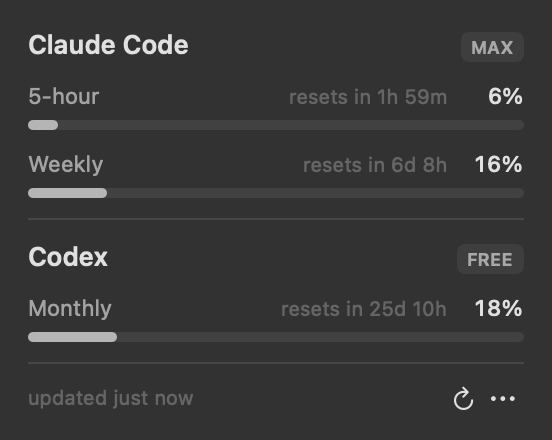
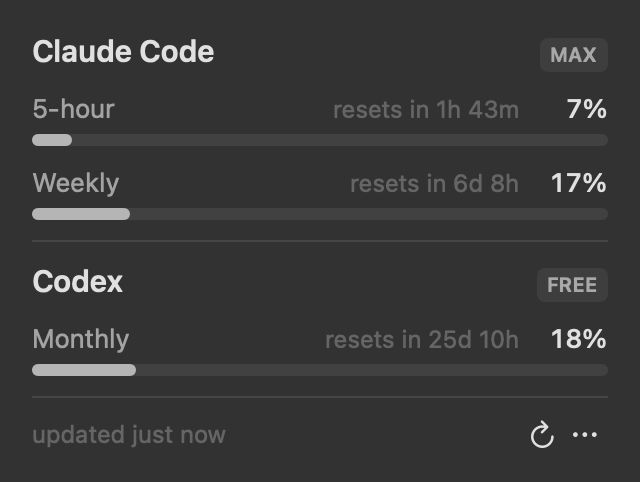
Let the menu bar number track a chosen provider, and enlarge the popover text

diff --git a/Sources/UsageBarApp/PopoverView.swift b/Sources/UsageBarApp/PopoverView.swift
@@ -14,8 +14,8 @@ struct PopoverView: View {
             Divider().padding(.vertical, 10)
             FooterView(store: store)
         }
-        .padding(14)
-        .frame(width: 276)
+        .padding(16)
+        .frame(width: 320)
     }
 
     @ViewBuilder
@@ -42,11 +42,11 @@ private struct ProviderSection: View {
         VStack(alignment: .leading, spacing: 10) {
             HStack(alignment: .firstTextBaseline) {
                 Text(status.kind.displayName)
-                    .font(.system(size: 13, weight: .semibold))
+                    .font(.system(size: 15, weight: .semibold))
                 Spacer()
                 if let plan = status.report?.plan {
                     Text(plan.uppercased())
-                        .font(.system(size: 9, weight: .semibold))
+                        .font(.system(size: 10, weight: .semibold))
                         .foregroundStyle(.secondary)
                         .padding(.horizontal, 5)
                         .padding(.vertical, 2)
@@ -68,17 +68,17 @@ private struct WindowRow: View {
         VStack(alignment: .leading, spacing: 5) {
             HStack(alignment: .firstTextBaseline, spacing: 6) {
                 Text(window.title)
-                    .font(.system(size: 11))
+                    .font(.system(size: 13))
                     .foregroundStyle(.secondary)
                 Spacer(minLength: 4)
                 if let resetsAt = window.resetsAt {
                     Text(RelativeTime.untilReset(resetsAt, now: now))
-                        .font(.system(size: 10))
+                        .font(.system(size: 12))
                         .foregroundStyle(.tertiary)
                 }
                 Text("\(Int(window.usedPercent.rounded()))%")
-                    .font(.system(size: 11, weight: .medium).monospacedDigit())
-                    .frame(width: 32, alignment: .trailing)
+                    .font(.system(size: 13, weight: .medium).monospacedDigit())
+                    .frame(width: 38, alignment: .trailing)
             }
             Meter(fraction: window.usedPercent / 100)
         }
@@ -107,7 +107,7 @@ private struct Meter: View {
                     .frame(width: max(clamped * geometry.size.width, clamped > 0 ? 5 : 0))
             }
         }
-        .frame(height: 5)
+        .frame(height: 6)
     }
 }
 
@@ -118,14 +118,14 @@ private struct EmptyStateView: View {
     var body: some View {
         VStack(alignment: .leading, spacing: 8) {
             Text(isRefreshing && statuses.isEmpty ? "Checking…" : "No usage to show")
-                .font(.system(size: 13, weight: .semibold))
+                .font(.system(size: 15, weight: .semibold))
             ForEach(statuses) { status in
                 VStack(alignment: .leading, spacing: 2) {
                     Text(status.kind.displayName)
-                        .font(.system(size: 11, weight: .medium))
+                        .font(.system(size: 13, weight: .medium))
                         .foregroundStyle(.secondary)
                     Text(status.unavailableReason ?? "Unavailable.")
-                        .font(.system(size: 11))
+                        .font(.system(size: 12))
                         .foregroundStyle(.tertiary)
                         .fixedSize(horizontal: false, vertical: true)
                 }
@@ -135,7 +135,7 @@ private struct EmptyStateView: View {
 }
 
 private struct FooterView: View {
-    let store: UsageStore
+    @Bindable var store: UsageStore
     @State private var opensAtLogin = LoginItem.isEnabled
 
     /// Reflects back what the service actually reports, so a rejected registration
@@ -153,30 +153,37 @@ private struct FooterView: View {
     var body: some View {
         HStack(spacing: 8) {
             Text(store.lastRefreshed.map { RelativeTime.sinceUpdate($0) } ?? "not checked yet")
-                .font(.system(size: 10))
+                .font(.system(size: 12))
                 .foregroundStyle(.tertiary)
             Spacer()
             Button {
                 store.refresh()
             } label: {
                 Image(systemName: "arrow.clockwise")
-                    .font(.system(size: 11, weight: .medium))
+                    .font(.system(size: 13, weight: .medium))
             }
             .buttonStyle(.plain)
             .disabled(store.isRefreshing)
             .help("Refresh")
 
             Menu {
+                Picker("Show in Menu Bar", selection: $store.menuBarSource) {
+                    ForEach(MenuBarSource.allCases) { source in
+                        Text(source.title).tag(source)
+                    }
+                }
+                .pickerStyle(.inline)
+                Divider()
                 Toggle("Open at Login", isOn: loginItemBinding)
                 Divider()
                 Button("Quit UsageBar") { NSApplication.shared.terminate(nil) }
             } label: {
                 Image(systemName: "ellipsis")
-                    .font(.system(size: 11, weight: .medium))
+                    .font(.system(size: 13, weight: .medium))
             }
             .menuStyle(.borderlessButton)
             .menuIndicator(.hidden)
-            .frame(width: 16)
+            .frame(width: 18)
         }
     }
 }

diff --git a/Tests/UsageBarCoreTests/ParsingTests.swift b/Tests/UsageBarCoreTests/ParsingTests.swift
@@ -172,9 +172,74 @@ struct PresentationTests {
 
 @Suite("Store")
 struct UsageStoreTests {
+    /// A throwaway domain per test so one test's saved choice cannot leak into another.
+    static func scratchDefaults(_ name: String) -> UserDefaults {
+        let defaults = UserDefaults(suiteName: "usagebar.tests.\(name)")!
+        defaults.removePersistentDomain(forName: "usagebar.tests.\(name)")
+        return defaults
+    }
+
+    static let bothProviders: [ProviderStatus] = [
+        ProviderStatus(kind: .claude, outcome: .report(ProviderReport(plan: "max", windows: [
+            UsageWindow(id: "five_hour", title: "5-hour", usedPercent: 6, resetsAt: nil),
+            UsageWindow(id: "seven_day", title: "Weekly", usedPercent: 16, resetsAt: nil),
+        ]))),
+        ProviderStatus(kind: .codex, outcome: .report(ProviderReport(plan: "free", windows: [
+            UsageWindow(id: "primary", title: "Monthly", usedPercent: 18, resetsAt: nil)
+        ]))),
+    ]
+
+    @MainActor
+    @Test func headlineFollowsTheChosenProvider() {
+        let store = UsageStore(defaults: Self.scratchDefaults(#function))
+        store.apply(Self.bothProviders)
+
+        #expect(store.menuBarSource == .highest)
+        #expect(store.headlinePercent == 18)
+
+        store.menuBarSource = .claude
+        #expect(store.headlinePercent == 16)
+
+        store.menuBarSource = .codex
+        #expect(store.headlinePercent == 18)
+    }
+
+    @MainActor
+    @Test func headlineIsEmptyWhenTheChosenProviderDidNotAnswer() {
+        let store = UsageStore(defaults: Self.scratchDefaults(#function))
+        store.menuBarSource = .codex
+        store.apply([
+            Self.bothProviders[0],
+            ProviderStatus(kind: .codex, outcome: .unavailable("`codex` was not found.")),
+        ])
+
+        #expect(store.headlinePercent == nil)
+    }
+
+    @MainActor
+    @Test func theChoiceSurvivesARestart() {
+        let defaults = Self.scratchDefaults(#function)
+        let first = UsageStore(defaults: defaults)
+        first.menuBarSource = .claude
+
+        let relaunched = UsageStore(defaults: defaults)
+        relaunched.apply(Self.bothProviders)
+
+        #expect(relaunched.menuBarSource == .claude)
+        #expect(relaunched.headlinePercent == 16)
+    }
+
+    @MainActor
+    @Test func fallsBackToHighestWhenTheStoredChoiceIsUnreadable() {
+        let defaults = Self.scratchDefaults(#function)
+        defaults.set("gemini", forKey: MenuBarSource.defaultsKey)
+
+        #expect(UsageStore(defaults: defaults).menuBarSource == .highest)
+    }
+
     @MainActor
     @Test func headlineTracksTheWorstWindowAcrossProviders() {
-        let store = UsageStore()
+        let store = UsageStore(defaults: Self.scratchDefaults(#function))
         store.apply([
             ProviderStatus(
                 kind: .claude,
@@ -198,7 +263,7 @@ struct UsageStoreTests {
 
     @MainActor
     @Test func headlineIsAbsentWhenNothingCouldBeProbed() {
-        let store = UsageStore()
+        let store = UsageStore(defaults: Self.scratchDefaults(#function))
         store.apply([
             ProviderStatus(kind: .claude, outcome: .unavailable("not installed")),
             ProviderStatus(kind: .codex, outcome: .unavailable("not installed")),

diff --git a/Sources/UsageBarCore/UsageStore.swift b/Sources/UsageBarCore/UsageStore.swift
@@ -8,10 +8,19 @@ public final class UsageStore {
     public private(set) var lastRefreshed: Date?
     public private(set) var isRefreshing = false
 
+    public var menuBarSource: MenuBarSource {
+        didSet { defaults.set(menuBarSource.rawValue, forKey: MenuBarSource.defaultsKey) }
+    }
+
+    private let defaults: UserDefaults
     private var refreshTask: Task<Void, Never>?
     private var autoRefreshTask: Task<Void, Never>?
 
-    public init() {}
+    public init(defaults: UserDefaults = .standard) {
+        self.defaults = defaults
+        self.menuBarSource = defaults.string(forKey: MenuBarSource.defaultsKey)
+            .flatMap(MenuBarSource.init(rawValue:)) ?? .highest
+    }
 
     public var available: [ProviderStatus] {
         statuses.filter { $0.report != nil }
@@ -21,10 +30,11 @@ public final class UsageStore {
         statuses.filter { $0.report == nil }
     }
 
-    /// The worst window across every provider that answered, which is the number worth
-    /// carrying in the menu bar.
+    /// The worst window of whichever providers `menuBarSource` covers. Nil when the
+    /// chosen provider did not answer, which leaves the menu bar showing an empty ring.
     public var headlinePercent: Double? {
-        available.flatMap { $0.report?.windows ?? [] }.map(\.usedPercent).max()
+        let scoped = menuBarSource.providerKind.map { kind in available.filter { $0.kind == kind } } ?? available
+        return scoped.flatMap { $0.report?.windows ?? [] }.map(\.usedPercent).max()
     }
 
     public func refresh() {

diff --git a/Sources/UsageBarApp/PreviewRender.swift b/Sources/UsageBarApp/PreviewRender.swift
@@ -38,11 +38,20 @@ enum PreviewRender {
                 )
             }
         }
+        let bySource: [(String, Double?)] = MenuBarSource.allCases.map { source in
+            live.menuBarSource = source
+            return (source.title, live.headlinePercent)
+        }
+        live.menuBarSource = .highest
+
         snapshot(
-            HStack(spacing: 24) {
-                MenuBarLabel(percent: 6, isRefreshing: false)
-                MenuBarLabel(percent: 72, isRefreshing: false)
-                MenuBarLabel(percent: nil, isRefreshing: true)
+            HStack(spacing: 20) {
+                ForEach(bySource, id: \.0) { title, percent in
+                    VStack(spacing: 4) {
+                        MenuBarLabel(percent: percent, isRefreshing: false)
+                        Text(title).font(.system(size: 9)).foregroundStyle(.secondary)
+                    }
+                }
             }.padding(8),
             dark: false,
             to: "\(outputDirectory)/label.png"

diff --git a/Sources/UsageBarCore/MenuBarSource.swift b/Sources/UsageBarCore/MenuBarSource.swift
@@ -1,0 +1,28 @@
+import Foundation
+
+/// Which provider's usage the menu bar number stands for.
+public enum MenuBarSource: String, Sendable, CaseIterable, Identifiable {
+    case highest
+    case claude
+    case codex
+
+    public static let defaultsKey = "menuBarSource"
+
+    public var id: String { rawValue }
+
+    public var title: String {
+        switch self {
+        case .highest: "Highest"
+        case .claude: ProviderKind.claude.displayName
+        case .codex: ProviderKind.codex.displayName
+        }
+    }
+
+    public var providerKind: ProviderKind? {
+        switch self {
+        case .highest: nil
+        case .claude: .claude
+        case .codex: .codex
+        }
+    }
+}

diff --git a/README.md b/README.md
@@ -4,7 +4,7 @@ A macOS menu bar app that shows how much of your Claude Code and Codex usage lim
 
 <picture>
   <source media="(prefers-color-scheme: dark)" srcset="docs/screenshot-dark.png">
-  <img src="docs/screenshot-light.png" width="276" alt="UsageBar popover showing Claude Code and Codex usage">
+  <img src="docs/screenshot-light.png" width="320" alt="UsageBar popover showing Claude Code and Codex usage">
 </picture>
 
 ## Install
@@ -27,6 +27,8 @@ Both CLIs are probed independently. Whichever ones answer get a section; if neit
 - **Codex** — whichever windows your ChatGPT plan reports. Paid plans have a 5-hour and a weekly window; free accounts have a single monthly one.
 
 Usage refreshes every 5 minutes and whenever you press refresh.
+
+The menu bar itself has room for one number. Under **⋯ → Show in Menu Bar**, pick whether that number tracks Claude Code, Codex, or whichever of the two is highest. The choice is remembered across restarts.
 
 ## How it reads the numbers
 
